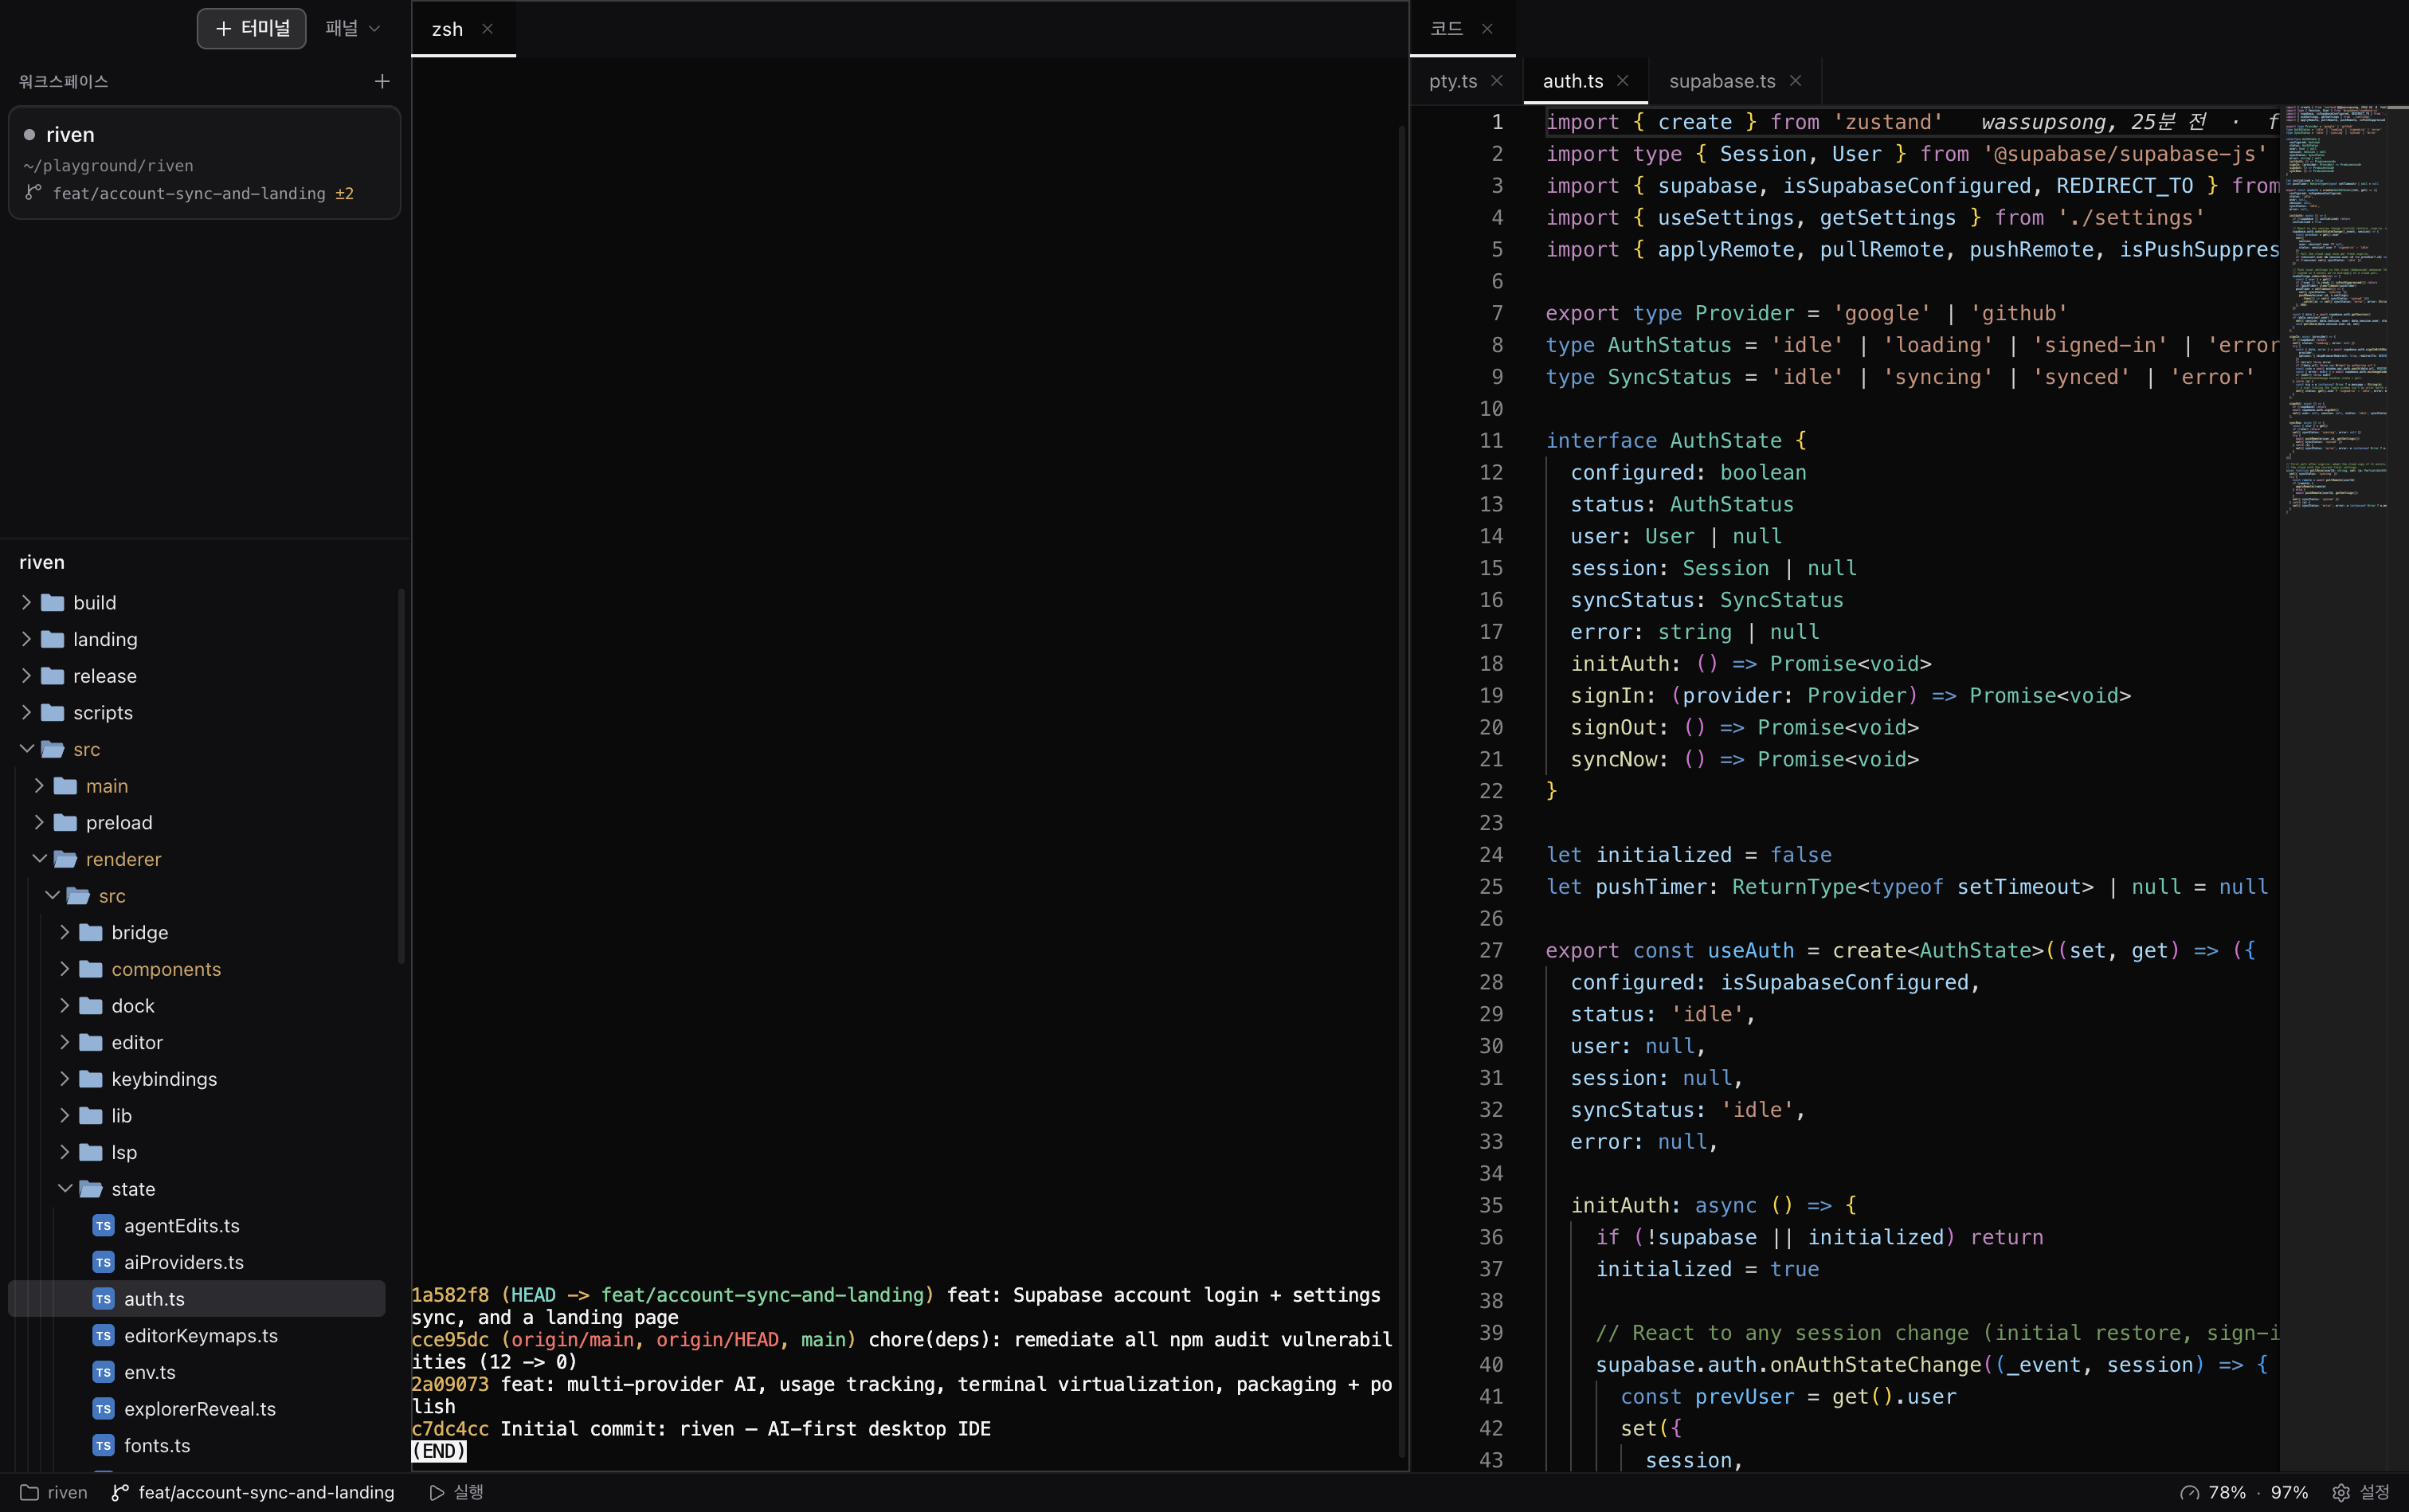
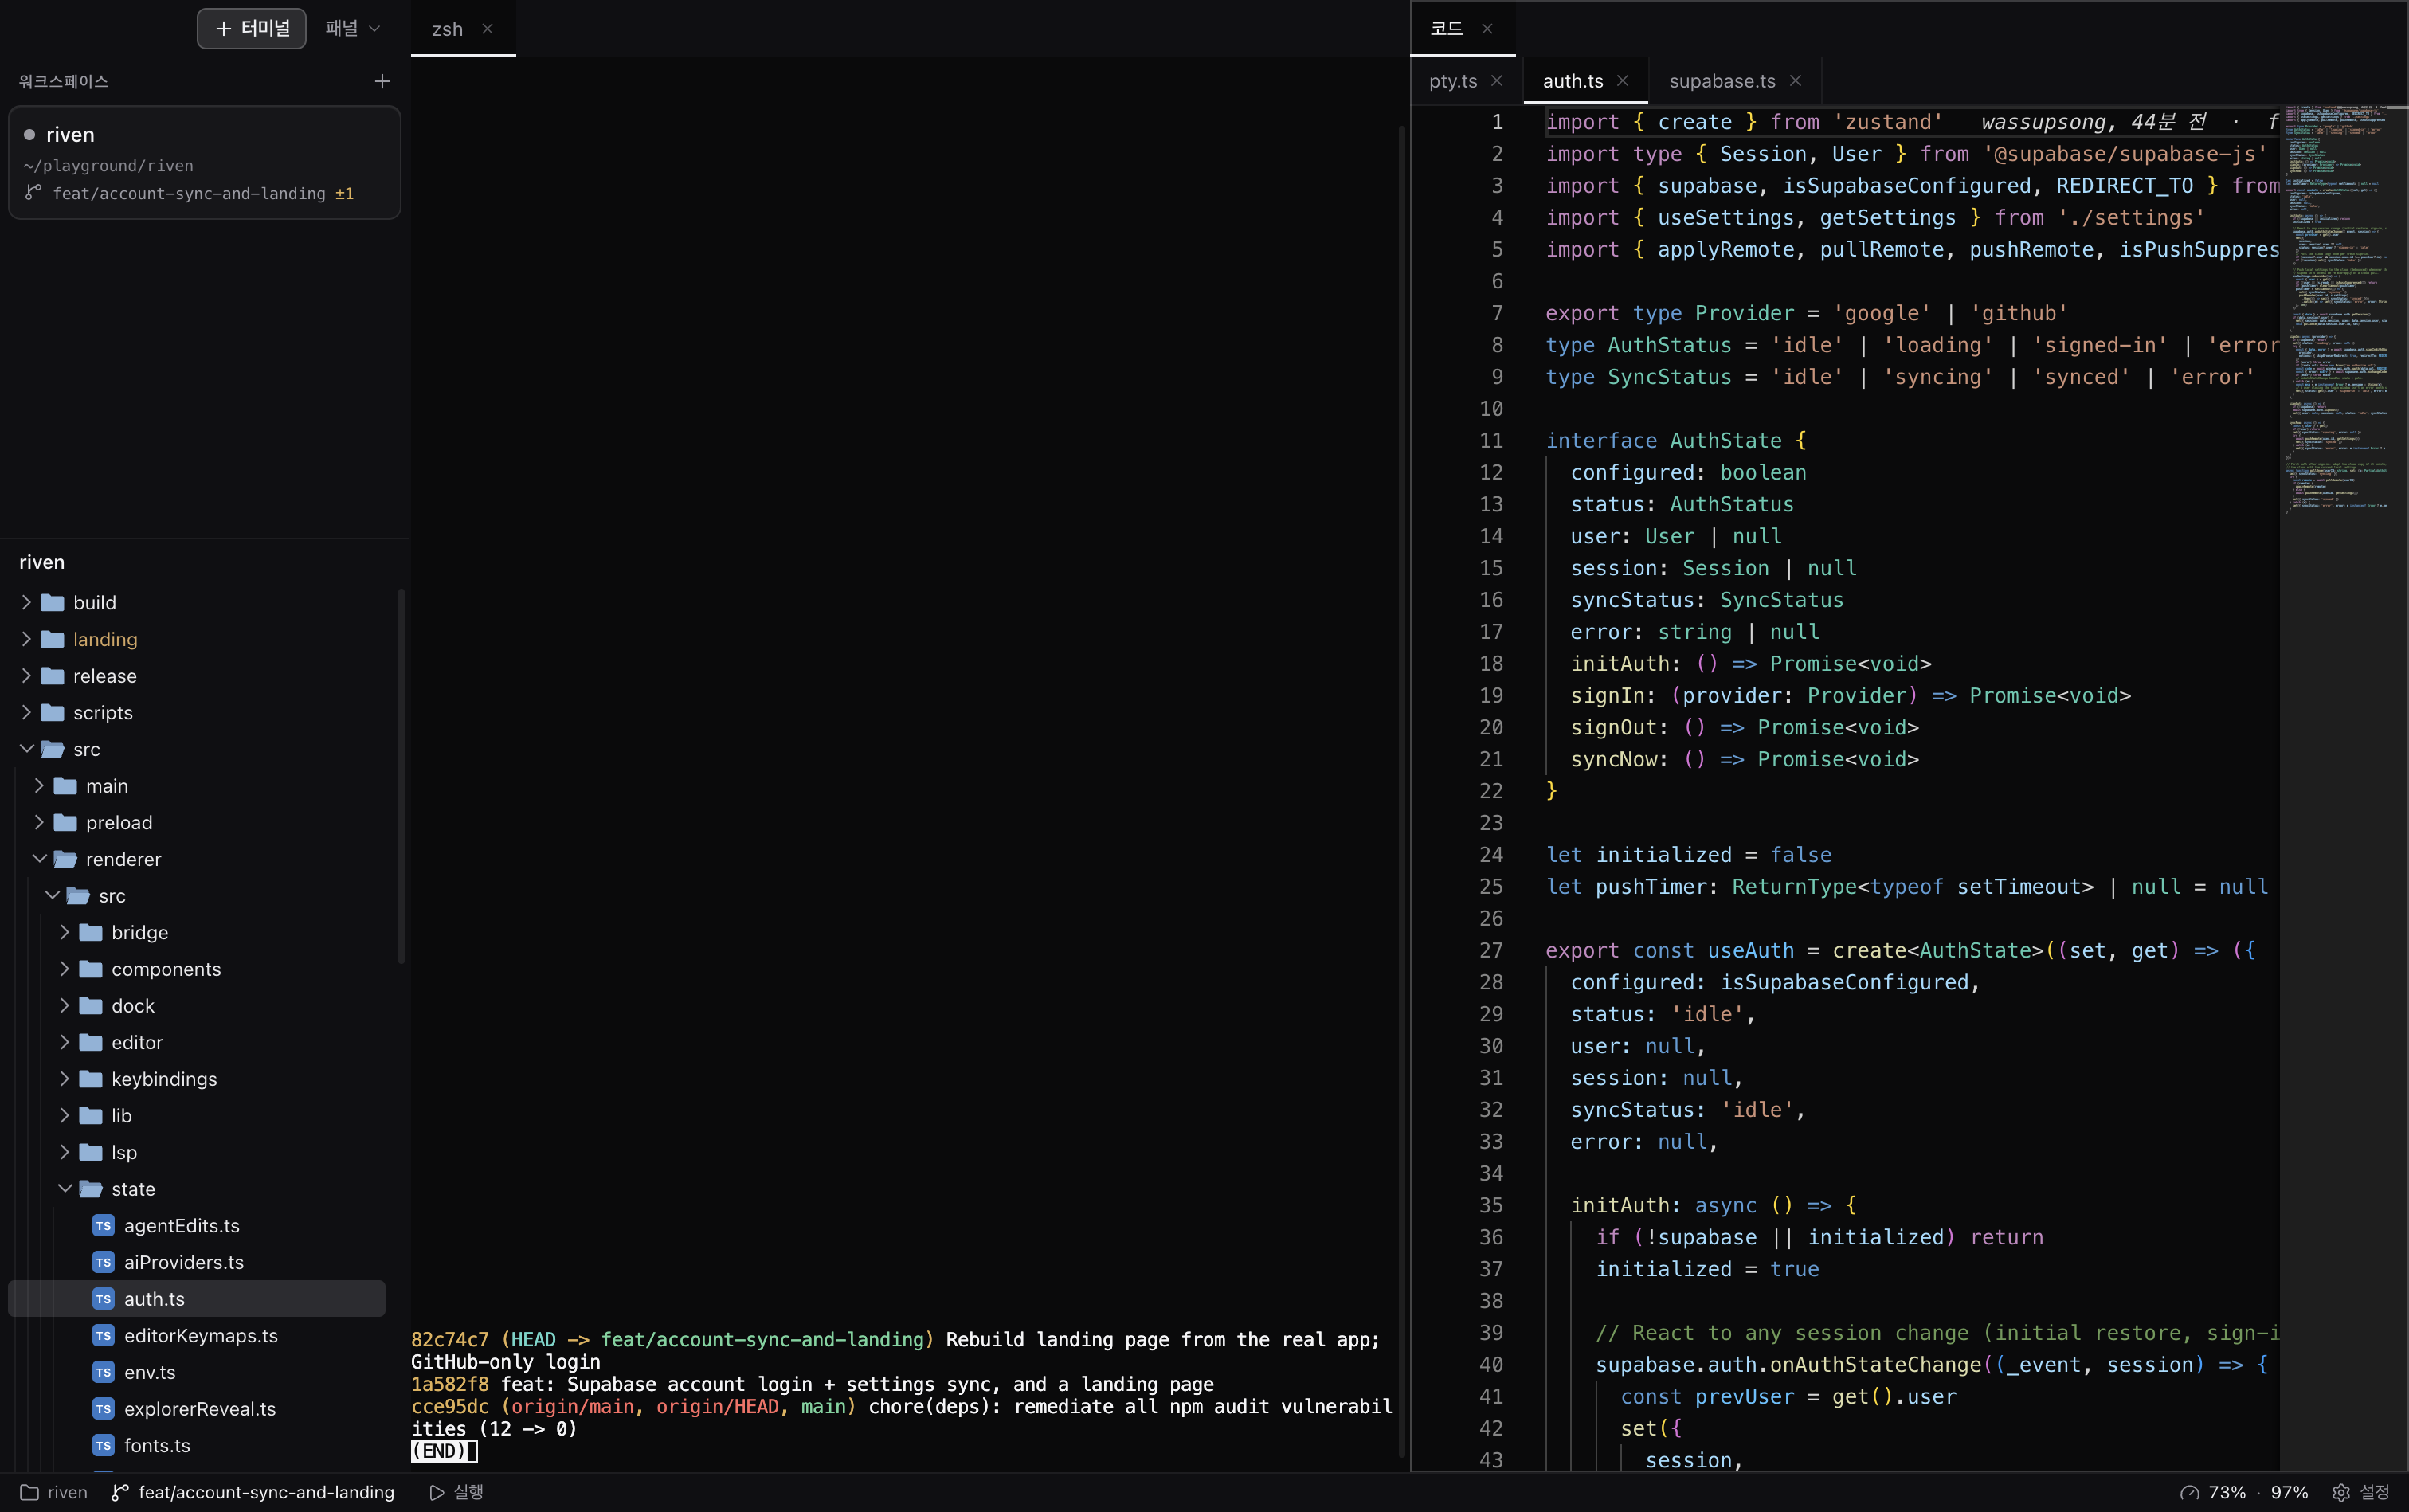
landing: reposition around integrated IDE (drop AI-first framing)
- hero/section copy rewritten to emphasize a unified IDE (editor + terminal +
  preview + Git in one), no more AI-first / first-class-agent messaging
- title: '하나로 합친 통합 코드 에디터'
- feature grid reordered to lead with integration; agent-orchestration card
  replaced by Git; usage/token strip item swapped for web preview + palette
- download CTAs point to GitHub Releases (static host / Vercel friendly)
- hero screenshot recaptured with a clean git-log (no AI-first commit visible)

Changed region(s): [[0.1554, 0.8393, 0.5906, 0.9636], [0.9947, 0.0, 1.0, 0.9636], [0.0622, 0.6217, 0.0933, 0.6528]]

diff --git a/landing/index.html b/landing/index.html
@@ -4,8 +4,8 @@
 <meta charset="utf-8" />
 <meta name="viewport" content="width=device-width, initial-scale=1" />
 <meta name="color-scheme" content="light dark" />
-<title>riven — AI 에이전트를 위한 데스크톱 IDE</title>
-<meta name="description" content="riven — 실제 터미널에서 AI 에이전트를 돌리고, 그 편집을 에디터에서 바로 검토하는 AI-first 데스크톱 IDE. 자유 도킹 패널, 영속 터미널, 멀티 언어 LSP." />
+<title>riven — 하나로 합친 통합 코드 에디터</title>
+<meta name="description" content="riven — 코드 에디터, 실제 터미널, 웹 프리뷰, Git, 멀티 언어 LSP를 한 앱에 통합한 데스크톱 IDE. 모든 것이 자유롭게 도킹되는 통합 개발 환경." />
 <style>
   :root {
     --bg: #faf7f3;
@@ -230,7 +230,7 @@
       <button id="lang-ko" type="button" onclick="setLang('ko')">KO</button>
       <button id="lang-en" type="button" onclick="setLang('en')">EN</button>
     </div>
-    <a class="btn btn-primary" href="riven-0.0.2-arm64.dmg" download>
+    <a class="btn btn-primary" href="https://github.com/wassupss/riven/releases/latest" target="_blank" rel="noopener">
       <svg width="15" height="15" viewBox="0 0 24 24" fill="currentColor" aria-hidden="true"><path d="M12 3v10.6l3.3-3.3 1.4 1.4L12 17.4 6.3 11.7l1.4-1.4L11 13.6V3h1zM5 19h14v2H5v-2z"/></svg>
       <span data-lang-en>Download</span><span data-lang-ko>다운로드</span>
     </a>
@@ -240,17 +240,17 @@
 <a id="top"></a>
 <header class="hero">
   <div class="wrap hero-in">
-    <div class="eyebrow"><span data-lang-en>AI-first desktop IDE</span><span data-lang-ko>AI-first 데스크톱 IDE</span></div>
+    <div class="eyebrow"><span data-lang-en>Integrated development environment</span><span data-lang-ko>통합 개발 환경</span></div>
     <h1>
-      <span data-lang-en>A code editor where<br><span class="accent">agents are first-class.</span></span>
-      <span data-lang-ko>에이전트가 일급 시민인<br><span class="accent">코드 에디터.</span></span>
+      <span data-lang-en>Editor, terminal, preview —<br><span class="accent">one integrated IDE.</span></span>
+      <span data-lang-ko>에디터·터미널·프리뷰를<br><span class="accent">하나로 합친 통합 IDE.</span></span>
     </h1>
     <p class="sub">
-      <span data-lang-en>Run AI agents in real terminals and review their edits right in the editor. Every panel — explorer, editor, terminal, preview — docks exactly where you want it.</span>
-      <span data-lang-ko>실제 터미널에서 AI 에이전트를 돌리고, 그 편집을 에디터에서 바로 검토하세요. 탐색기·에디터·터미널·프리뷰 — 모든 패널이 원하는 자리에 도킹됩니다.</span>
+      <span data-lang-en>A code editor, real terminals, web preview and Git — every tool you reach for, unified in one app. Every panel docks exactly where you want it.</span>
+      <span data-lang-ko>코드 에디터, 실제 터미널, 웹 프리뷰, Git까지 — 흩어져 있던 도구를 한 앱에 통합했습니다. 모든 패널은 원하는 자리에 자유롭게 도킹됩니다.</span>
     </p>
     <div class="cta">
-      <a class="btn btn-primary" href="riven-0.0.2-arm64.dmg" download>
+      <a class="btn btn-primary" href="https://github.com/wassupss/riven/releases/latest" target="_blank" rel="noopener">
         <svg width="16" height="16" viewBox="0 0 24 24" fill="currentColor" aria-hidden="true"><path d="M16.4 12.9c0-2 1.6-3 1.7-3-.9-1.4-2.4-1.6-2.9-1.6-1.2-.1-2.4.7-3 .7-.6 0-1.6-.7-2.6-.7-1.3 0-2.6.8-3.2 2-1.4 2.4-.4 6 1 8 .7 1 1.4 2 2.4 2 1 0 1.3-.6 2.5-.6s1.5.6 2.5.6 1.7-1 2.3-2c.7-1.1 1-2.2 1-2.3 0 0-2-.8-2.1-3.1zM14.6 6.3c.5-.7.9-1.6.8-2.5-.8 0-1.7.5-2.3 1.2-.5.6-.9 1.5-.8 2.4.9.1 1.7-.4 2.3-1.1z"/></svg>
         <span data-lang-en>Download for macOS</span><span data-lang-ko>macOS용 다운로드</span>
       </a>
@@ -274,16 +274,11 @@
 <section id="features">
   <div class="wrap">
     <div class="section-head center">
-      <div class="eyebrow"><span data-lang-en>Built for agent workflows</span><span data-lang-ko>에이전트 워크플로를 위해 설계</span></div>
-      <h2><span data-lang-en>Everything an AI-first editor needs.</span><span data-lang-ko>AI-first 에디터에 필요한 모든 것.</span></h2>
+      <div class="eyebrow"><span data-lang-en>One workbench</span><span data-lang-ko>하나의 워크벤치</span></div>
+      <h2><span data-lang-en>Everything, in one integrated IDE.</span><span data-lang-ko>모든 것을, 하나의 통합 IDE에.</span></h2>
     </div>
 
     <div class="grid">
-      <div class="card reveal">
-        <div class="ico"><svg viewBox="0 0 24 24" fill="none" stroke="currentColor" stroke-width="2"><rect x="3" y="4" width="18" height="16" rx="2"/><path d="M7 9l3 3-3 3M13 15h4" stroke-linecap="round" stroke-linejoin="round"/></svg></div>
-        <h3><span data-lang-en>Agent orchestration</span><span data-lang-ko>에이전트 오케스트레이션</span></h3>
-        <p><span data-lang-en>Run agents like Claude in real terminals. Running-state, bell and task-done are detected from the actual child processes — never from raw output, so your own typing never trips a false "running".</span><span data-lang-ko>Claude 같은 에이전트를 실제 터미널에서 실행합니다. 실행 상태·벨·완료를 원시 출력이 아니라 실제 자식 프로세스에서 감지하므로, 직접 입력할 때 잘못된 "실행 중" 표시가 뜨지 않습니다.</span></p>
-      </div>
       <div class="card reveal">
         <div class="ico"><svg viewBox="0 0 24 24" fill="none" stroke="currentColor" stroke-width="2"><rect x="3" y="3" width="18" height="18" rx="2"/><path d="M3 9h18M9 9v12"/></svg></div>
         <h3><span data-lang-en>Freely dockable panels</span><span data-lang-ko>자유 도킹 패널</span></h3>
@@ -292,17 +287,22 @@
       <div class="card reveal">
         <div class="ico"><svg viewBox="0 0 24 24" fill="none" stroke="currentColor" stroke-width="2"><path d="M4 17l6-6-6-6M12 19h8" stroke-linecap="round" stroke-linejoin="round"/></svg></div>
         <h3><span data-lang-en>Persistent terminals</span><span data-lang-ko>영속 터미널</span></h3>
-        <p><span data-lang-en>PTYs live in the main process, surviving ⌘R and panel remounts, and reconnect instantly with a serialized screen snapshot.</span><span data-lang-ko>PTY가 메인 프로세스에 살아 있어 ⌘R과 패널 재장착에도 살아남고, 직렬화된 화면 스냅샷으로 즉시 복원됩니다.</span></p>
-      </div>
-      <div class="card reveal">
-        <div class="ico"><svg viewBox="0 0 24 24" fill="none" stroke="currentColor" stroke-width="2"><path d="M12 3v18M6 8l-3 4 3 4M18 8l3 4-3 4" stroke-linecap="round" stroke-linejoin="round"/></svg></div>
-        <h3><span data-lang-en>Inline agent-edit review</span><span data-lang-ko>인라인 에이전트 편집 리뷰</span></h3>
-        <p><span data-lang-en>A file watcher catches edits made by agents, auto-opens the file, and shows a multi-hunk inline diff against a git or cached baseline — with per-hunk revert.</span><span data-lang-ko>파일 워처가 에이전트의 편집을 감지해 파일을 자동으로 열고, git 또는 캐시 기준과의 멀티 헝크 인라인 diff를 헝크 단위 되돌리기와 함께 보여줍니다.</span></p>
+        <p><span data-lang-en>Real PTYs live in the main process, surviving ⌘R and panel remounts, and reconnect instantly with a serialized screen snapshot.</span><span data-lang-ko>실제 PTY가 메인 프로세스에 살아 있어 ⌘R과 패널 재장착에도 살아남고, 직렬화된 화면 스냅샷으로 즉시 복원됩니다.</span></p>
       </div>
       <div class="card reveal">
         <div class="ico"><svg viewBox="0 0 24 24" fill="none" stroke="currentColor" stroke-width="2"><path d="M8 6l-5 6 5 6M16 6l5 6-5 6" stroke-linecap="round" stroke-linejoin="round"/></svg></div>
         <h3><span data-lang-en>Monaco + multi-language LSP</span><span data-lang-ko>Monaco + 멀티 언어 LSP</span></h3>
         <p><span data-lang-en>The Monaco core from VS Code. TypeScript/JS, Python, YAML and Bash work with zero setup; C/C++, Go and Rust light up automatically when on PATH.</span><span data-lang-ko>VS Code의 Monaco 코어. TypeScript/JS·Python·YAML·Bash는 무설정으로, C/C++·Go·Rust는 PATH에 있으면 자동으로 켜집니다.</span></p>
+      </div>
+      <div class="card reveal">
+        <div class="ico"><svg viewBox="0 0 24 24" fill="none" stroke="currentColor" stroke-width="2"><circle cx="6" cy="6" r="2.5"/><circle cx="6" cy="18" r="2.5"/><circle cx="18" cy="9" r="2.5"/><path d="M6 8.5v7M8.5 6H14a3 3 0 013 3"/></svg></div>
+        <h3><span data-lang-en>Git built in</span><span data-lang-ko>Git 통합</span></h3>
+        <p><span data-lang-en>Stage, commit, push and pull, browse diffs and read inline blame — a full Git panel without leaving the editor.</span><span data-lang-ko>스테이지·커밋·push/pull·diff·인라인 blame까지 — 에디터를 벗어나지 않는 완전한 Git 패널.</span></p>
+      </div>
+      <div class="card reveal">
+        <div class="ico"><svg viewBox="0 0 24 24" fill="none" stroke="currentColor" stroke-width="2"><path d="M12 3v18M6 8l-3 4 3 4M18 8l3 4-3 4" stroke-linecap="round" stroke-linejoin="round"/></svg></div>
+        <h3><span data-lang-en>Inline edit review</span><span data-lang-ko>인라인 편집 리뷰</span></h3>
+        <p><span data-lang-en>A file watcher catches edits made outside the editor, auto-opens the file, and shows a multi-hunk inline diff against a git or cached baseline — with per-hunk revert.</span><span data-lang-ko>파일 워처가 에디터 밖에서 일어난 편집을 감지해 파일을 자동으로 열고, git 또는 캐시 기준과의 멀티 헝크 인라인 diff를 헝크 단위 되돌리기와 함께 보여줍니다.</span></p>
       </div>
       <div class="card reveal">
         <div class="ico"><svg viewBox="0 0 24 24" fill="none" stroke="currentColor" stroke-width="2"><path d="M12 3a9 9 0 100 18 9 9 0 000-18zM3 12h18" stroke-linecap="round"/><path d="M12 3c2.5 2.3 4 5.6 4 9s-1.5 6.7-4 9c-2.5-2.3-4-5.6-4-9s1.5-6.7 4-9z" stroke-linecap="round"/></svg></div>
@@ -321,8 +321,8 @@
     </div>
     <div class="strip">
       <div class="item reveal"><svg viewBox="0 0 24 24" fill="none" stroke="currentColor" stroke-width="2"><circle cx="11" cy="11" r="7"/><path d="M21 21l-4.3-4.3" stroke-linecap="round"/></svg><div><b><span data-lang-en>Full-text search</span><span data-lang-ko>전체 텍스트 검색</span></b><p><span data-lang-en>Search across the whole workspace, jump straight to the line.</span><span data-lang-ko>워크스페이스 전체를 검색하고 해당 줄로 바로 이동.</span></p></div></div>
-      <div class="item reveal"><svg viewBox="0 0 24 24" fill="none" stroke="currentColor" stroke-width="2"><circle cx="6" cy="6" r="2.5"/><circle cx="6" cy="18" r="2.5"/><circle cx="18" cy="9" r="2.5"/><path d="M6 8.5v7M8.5 6H14a3 3 0 013 3"/></svg><div><b><span data-lang-en>Git built in</span><span data-lang-ko>Git 통합</span></b><p><span data-lang-en>Stage, commit, push/pull, diffs and inline blame.</span><span data-lang-ko>스테이지·커밋·push/pull·diff·인라인 blame.</span></p></div></div>
-      <div class="item reveal"><svg viewBox="0 0 24 24" fill="none" stroke="currentColor" stroke-width="2"><path d="M3 3v18h18"/><path d="M7 15l4-4 3 3 5-6" stroke-linecap="round" stroke-linejoin="round"/></svg><div><b><span data-lang-en>Usage tracking</span><span data-lang-ko>사용량 추적</span></b><p><span data-lang-en>See today's tokens, cost and rate-limit windows at a glance.</span><span data-lang-ko>오늘의 토큰·비용·사용 한도를 한눈에.</span></p></div></div>
+      <div class="item reveal"><svg viewBox="0 0 24 24" fill="none" stroke="currentColor" stroke-width="2"><rect x="3" y="4" width="18" height="14" rx="2"/><path d="M3 8h18M8 21h8" stroke-linecap="round"/></svg><div><b><span data-lang-en>Web preview</span><span data-lang-ko>웹 프리뷰</span></b><p><span data-lang-en>A live preview panel with automatic dev-server port detection.</span><span data-lang-ko>개발 서버 포트를 자동 감지하는 라이브 프리뷰 패널.</span></p></div></div>
+      <div class="item reveal"><svg viewBox="0 0 24 24" fill="none" stroke="currentColor" stroke-width="2"><rect x="3" y="4" width="18" height="16" rx="2"/><path d="M7 9l2.5 2.5L7 14M12 14h5" stroke-linecap="round" stroke-linejoin="round"/></svg><div><b><span data-lang-en>Command palette</span><span data-lang-ko>커맨드 팔레트</span></b><p><span data-lang-en>Jump to any file or run any command from one prompt.</span><span data-lang-ko>파일 이동과 명령 실행을 한 프롬프트에서.</span></p></div></div>
       <div class="item reveal"><svg viewBox="0 0 24 24" fill="none" stroke="currentColor" stroke-width="2"><rect x="3" y="7" width="18" height="10" rx="2"/><path d="M7 11h.01M11 11h.01M15 11h.01M8 14h8" stroke-linecap="round"/></svg><div><b><span data-lang-en>Custom keybindings</span><span data-lang-ko>커스텀 키바인딩</span></b><p><span data-lang-en>Rebind anything, chord shortcuts included.</span><span data-lang-ko>무엇이든 재지정, 코드(chord) 단축키까지.</span></p></div></div>
       <div class="item reveal"><svg viewBox="0 0 24 24" fill="none" stroke="currentColor" stroke-width="2"><circle cx="12" cy="12" r="9"/><path d="M12 3a9 9 0 010 18z" fill="currentColor" stroke="none"/></svg><div><b><span data-lang-en>Themes &amp; fonts</span><span data-lang-ko>테마 &amp; 폰트</span></b><p><span data-lang-en>Curated themes, importable fonts for editor and terminal.</span><span data-lang-ko>엄선된 테마와 에디터·터미널용 임포트 가능한 폰트.</span></p></div></div>
       <div class="item reveal"><svg viewBox="0 0 24 24" fill="none" stroke="currentColor" stroke-width="2"><rect x="3" y="4" width="7" height="16" rx="1.5"/><rect x="14" y="4" width="7" height="16" rx="1.5"/></svg><div><b><span data-lang-en>Per-workspace sessions</span><span data-lang-ko>워크스페이스별 세션</span></b><p><span data-lang-en>Multiple projects at once — tabs, layout and terminals restored on restart.</span><span data-lang-ko>여러 프로젝트를 동시에 — 탭·레이아웃·터미널이 재시작 시 복원.</span></p></div></div>
@@ -334,9 +334,9 @@
   <div class="wrap">
     <div class="install-box reveal">
       <div class="eyebrow"><span data-lang-en>Get riven</span><span data-lang-ko>riven 받기</span></div>
-      <h2><span data-lang-en>Start coding with agents.</span><span data-lang-ko>지금 에이전트와 코딩을 시작하세요.</span></h2>
+      <h2><span data-lang-en>One IDE. Start now.</span><span data-lang-ko>하나의 IDE. 지금 시작하세요.</span></h2>
       <div class="cta">
-        <a class="btn btn-primary" href="riven-0.0.2-arm64.dmg" download>
+        <a class="btn btn-primary" href="https://github.com/wassupss/riven/releases/latest" target="_blank" rel="noopener">
           <svg width="16" height="16" viewBox="0 0 24 24" fill="currentColor" aria-hidden="true"><path d="M16.4 12.9c0-2 1.6-3 1.7-3-.9-1.4-2.4-1.6-2.9-1.6-1.2-.1-2.4.7-3 .7-.6 0-1.6-.7-2.6-.7-1.3 0-2.6.8-3.2 2-1.4 2.4-.4 6 1 8 .7 1 1.4 2 2.4 2 1 0 1.3-.6 2.5-.6s1.5.6 2.5.6 1.7-1 2.3-2c.7-1.1 1-2.2 1-2.3 0 0-2-.8-2.1-3.1zM14.6 6.3c.5-.7.9-1.6.8-2.5-.8 0-1.7.5-2.3 1.2-.5.6-.9 1.5-.8 2.4.9.1 1.7-.4 2.3-1.1z"/></svg>
           <span data-lang-en>Download for macOS</span><span data-lang-ko>macOS용 다운로드</span>
         </a>